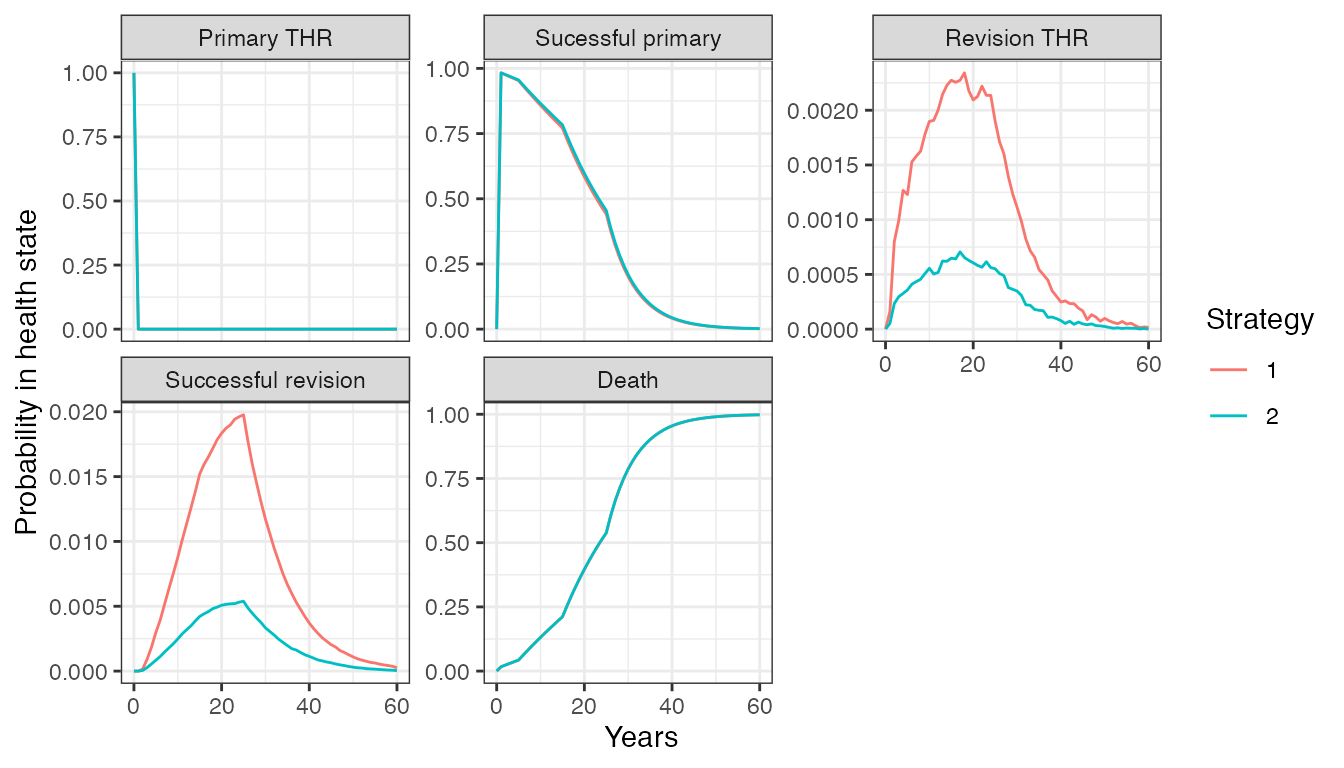
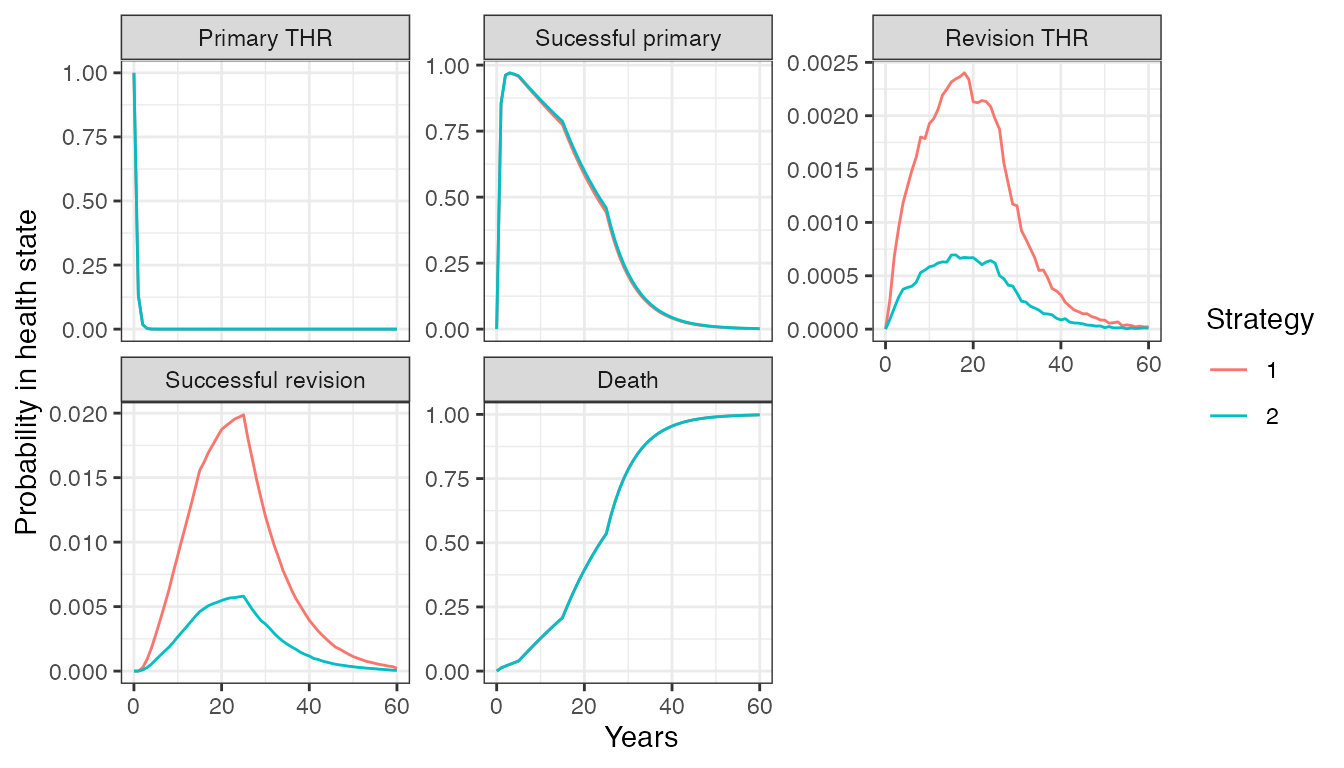
First transition in markov-inhomogeneous-indiv vignette should follow an exponential distribution

diff --git a/docs/dev/articles/markov-inhomogeneous-indiv.html b/docs/dev/articles/markov-inhomogeneous-indiv.html
@@ -125,7 +125,7 @@
     <div class="page-header toc-ignore">
       <h1 data-toc-skip>Time inhomogeneous Markov individual-level models</h1>
             
-            <h4 class="date">2021-08-11</h4>
+            <h4 class="date">2021-10-01</h4>
       
       <small class="dont-index">Source: <a href="https://github.com/hesim-dev/hesim/blob/master/vignettes/markov-inhomogeneous-indiv.Rmd"><code>vignettes/markov-inhomogeneous-indiv.Rmd</code></a></small>
       <div class="hidden name"><code>markov-inhomogeneous-indiv.Rmd</code></div>
@@ -490,27 +490,27 @@ NA
 <div class="sourceCode" id="cb20"><pre class="downlit sourceCode r">
 <code class="sourceCode R"><span class="fu"><a href="https://rdrr.io/r/utils/head.html">head</a></span><span class="op">(</span><span class="va">transmod_coef</span><span class="op">$</span><span class="va">log_omrPTHR</span><span class="op">)</span></code></pre></div>
 <pre><code>##           cons
-## [1,] -3.596431
-## [2,] -3.988715
-## [3,] -5.876084
-## [4,] -4.486835
-## [5,] -4.476008
-## [6,] -4.199265</code></pre>
+## [1,] -4.430847
+## [2,] -4.039040
+## [3,] -4.552117
+## [4,] -4.032528
+## [5,] -4.490362
+## [6,] -3.191306</code></pre>
 <div class="sourceCode" id="cb22"><pre class="downlit sourceCode r">
 <code class="sourceCode R"><span class="fu"><a href="https://rdrr.io/r/utils/head.html">head</a></span><span class="op">(</span><span class="va">transmod_coef</span><span class="op">$</span><span class="va">rr_scale</span><span class="op">)</span></code></pre></div>
 <pre><code>##           cons         age      male       np1
-## [1,] -5.556713 -0.04051652 0.7156021 -2.152466
-## [2,] -5.546599 -0.03654840 0.6925802 -1.439179
-## [3,] -5.517511 -0.04117596 0.8341849 -1.076603
-## [4,] -5.384765 -0.03585667 0.6416870 -1.817825
-## [5,] -5.430174 -0.03913905 0.7239590 -1.331652
-## [6,] -5.441274 -0.03484887 0.8493153 -1.528431</code></pre>
+## [1,] -5.783511 -0.04128869 0.9778031 -0.962896
+## [2,] -5.207464 -0.03997050 0.7842297 -1.204385
+## [3,] -5.312841 -0.03876222 0.6300583 -1.537765
+## [4,] -5.296748 -0.03514645 0.5917712 -1.172441
+## [5,] -5.305283 -0.04262026 0.7109772 -1.755950
+## [6,] -5.528636 -0.04171471 0.8185273 -1.085324</code></pre>
 <p>In addition to the coefficients, a complete parameterization of a transition model requires specification of the survival distributions and potentially auxiliary information (e.g., the times at which rates change in a piecewise exponential model). The parameters are stored in a <code><a href="../reference/params_surv_list.html">params_surv_list()</a></code> object, which is a list of <code><a href="../reference/params_surv.html">params_surv()</a></code> objects.</p>
 <div class="sourceCode" id="cb24"><pre class="downlit sourceCode r">
 <code class="sourceCode R"><span class="va">transmod_params</span> <span class="op">&lt;-</span> <span class="fu"><a href="../reference/params_surv_list.html">params_surv_list</a></span><span class="op">(</span>
   <span class="co"># 1. Primary THR:Successful primary (1:2)</span>
   <span class="fu"><a href="../reference/params_surv.html">params_surv</a></span><span class="op">(</span>coefs <span class="op">=</span> <span class="fu"><a href="https://rdrr.io/r/base/list.html">list</a></span><span class="op">(</span>rate <span class="op">=</span> <span class="va">transmod_coef</span><span class="op">$</span><span class="va">log_ttrrPTHR</span><span class="op">)</span>, 
-              dist <span class="op">=</span> <span class="st">"fixed"</span><span class="op">)</span>,
+              dist <span class="op">=</span> <span class="st">"exp"</span><span class="op">)</span>,
   
   <span class="co"># 2. Primary THR:Death (1:5)</span>
   <span class="fu"><a href="../reference/params_surv.html">params_surv</a></span><span class="op">(</span>coefs <span class="op">=</span> <span class="fu"><a href="https://rdrr.io/r/base/list.html">list</a></span><span class="op">(</span>rate <span class="op">=</span> <span class="va">transmod_coef</span><span class="op">$</span><span class="va">log_omrPTHR</span><span class="op">)</span>, 
@@ -656,16 +656,16 @@ NA
 <span class="va">econmod</span><span class="op">$</span><span class="fu">sim_disease</span><span class="op">(</span>max_t <span class="op">=</span> <span class="fl">60</span>, max_age <span class="op">=</span> <span class="fl">120</span><span class="op">)</span>
 <span class="fu"><a href="https://rdrr.io/r/base/proc.time.html">proc.time</a></span><span class="op">(</span><span class="op">)</span> <span class="op">-</span> <span class="va">ptm</span></code></pre></div>
 <pre><code>##    user  system elapsed 
-##   2.723   0.138   2.923</code></pre>
+##   2.743   0.136   2.922</code></pre>
 <div class="sourceCode" id="cb36"><pre class="downlit sourceCode r">
 <code class="sourceCode R"><span class="fu"><a href="https://rdrr.io/r/utils/head.html">head</a></span><span class="op">(</span><span class="va">econmod</span><span class="op">$</span><span class="va">disprog_</span><span class="op">)</span></code></pre></div>
-<pre><code>##    sample strategy_id patient_id grp_id from to final time_start  time_stop
-## 1:      1           1          1      1    1  2     0  0.0000000  0.6931472
-## 2:      1           1          1      1    2  3     0  0.6931472  9.0383854
-## 3:      1           1          1      1    3  4     0  9.0383854 10.0383854
-## 4:      1           1          1      1    4  5     1 10.0383854 28.4483156
-## 5:      1           1          2      1    1  2     0  0.0000000  0.6931472
-## 6:      1           1          2      1    2  3     0  0.6931472 19.8800776</code></pre>
+<pre><code>##    sample strategy_id patient_id grp_id from to final time_start   time_stop
+## 1:      1           1          1      1    1  2     0 0.00000000  0.03083859
+## 2:      1           1          1      1    2  5     1 0.03083859 13.56005932
+## 3:      1           1          2      1    1  2     0 0.00000000  0.10288001
+## 4:      1           1          2      1    2  5     1 0.10288001  8.94402996
+## 5:      1           1          3      1    1  2     0 0.00000000  0.18452863
+## 6:      1           1          3      1    2  5     1 0.18452863 26.78337540</code></pre>
 <p>The simulated patient trajectories can be summarized by computing the probability of being in each health state over time (by averaging across the simulated patients). Here, we will compute state occupancy probabilities at yearly intervals. They are generally quite similar to those in the cohort model.</p>
 <div class="sourceCode" id="cb38"><pre class="downlit sourceCode r">
 <code class="sourceCode R"><span class="va">econmod</span><span class="op">$</span><span class="fu">sim_stateprobs</span><span class="op">(</span>t <span class="op">=</span> <span class="fl">0</span><span class="op">:</span><span class="fl">60</span><span class="op">)</span></code></pre></div>
@@ -684,10 +684,10 @@ NA
 <span class="fu"><a href="https://rdrr.io/r/base/summary.html">summary</a></span><span class="op">(</span><span class="va">ce_sim</span>, labels <span class="op">=</span> <span class="va">labs</span><span class="op">)</span> <span class="op">%&gt;%</span>
   <span class="fu"><a href="https://rdrr.io/r/base/format.html">format</a></span><span class="op">(</span><span class="op">)</span></code></pre></div>
 <pre><code>##    Discount rate        Outcome  Standard prosthesis       New prosthesis
-## 1:         0.015          QALYs 15.21 (14.14, 16.25) 15.24 (14.17, 16.35)
+## 1:         0.015          QALYs 15.46 (14.29, 16.61) 15.50 (14.27, 16.63)
 ## 2:         0.060    Costs: Drug       394 (394, 394)       579 (579, 579)
-## 3:         0.060 Costs: Medical        118 (49, 239)           33 (5, 92)
-## 4:         0.060   Costs: total       512 (443, 633)       612 (584, 671)</code></pre>
+## 3:         0.060 Costs: Medical        118 (49, 238)           35 (6, 91)
+## 4:         0.060   Costs: total       512 (443, 632)       614 (585, 670)</code></pre>
 </div>
 </div>
 </div>
@@ -701,10 +701,10 @@ NA
 <span class="fu"><a href="../reference/icer.html">icer</a></span><span class="op">(</span><span class="va">cea_pw_out</span>, labels <span class="op">=</span> <span class="va">labs</span><span class="op">)</span> <span class="op">%&gt;%</span>
   <span class="fu"><a href="https://rdrr.io/r/base/format.html">format</a></span><span class="op">(</span>digits_qalys <span class="op">=</span> <span class="fl">3</span><span class="op">)</span></code></pre></div>
 <pre><code>##              Outcome          New prosthesis
-## 1: Incremental QALYs   0.033 (-0.476, 0.568)
-## 2: Incremental costs           100 (-1, 159)
-## 3:   Incremental NMB 1,547 (-23,899, 28,299)
-## 4:              ICER                   3,050</code></pre>
+## 1: Incremental QALYs   0.041 (-0.504, 0.676)
+## 2: Incremental costs           102 (-0, 162)
+## 3:   Incremental NMB 1,953 (-25,309, 33,689)
+## 4:              ICER                   2,489</code></pre>
 </div>
   </div>
 
